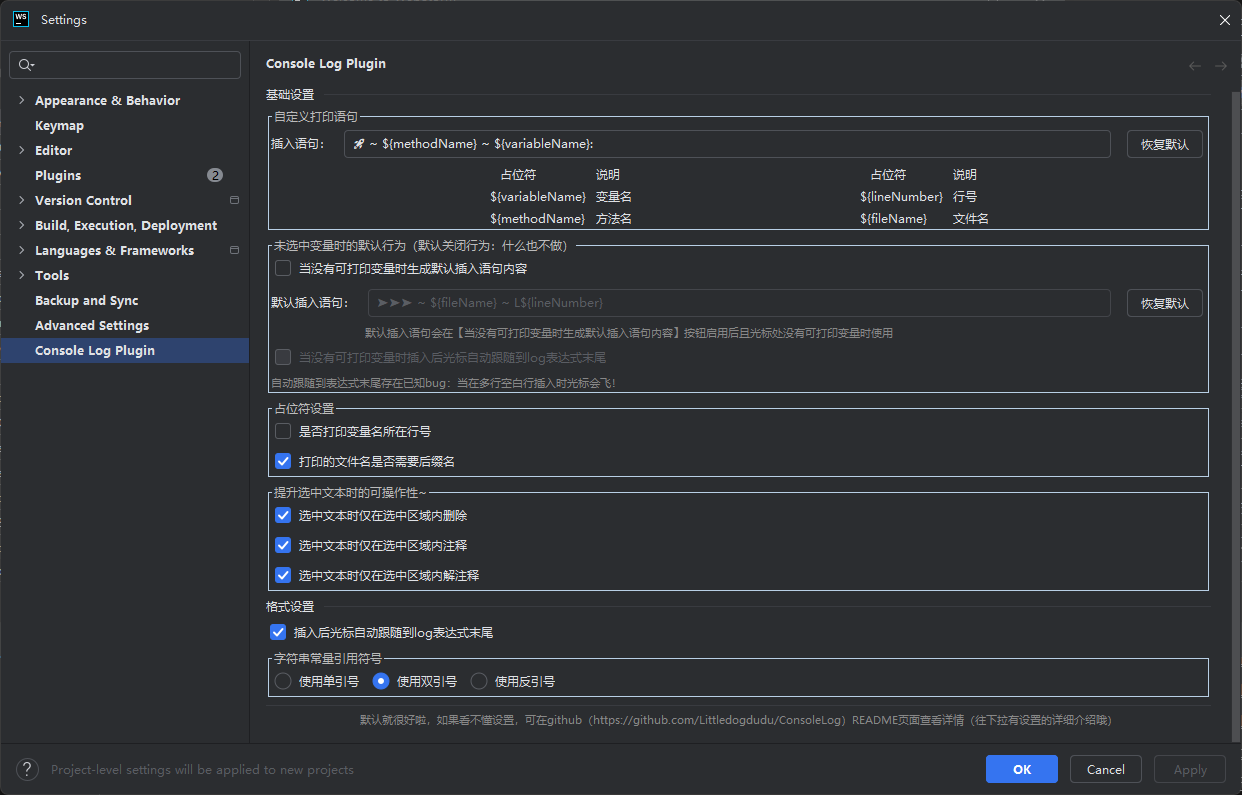
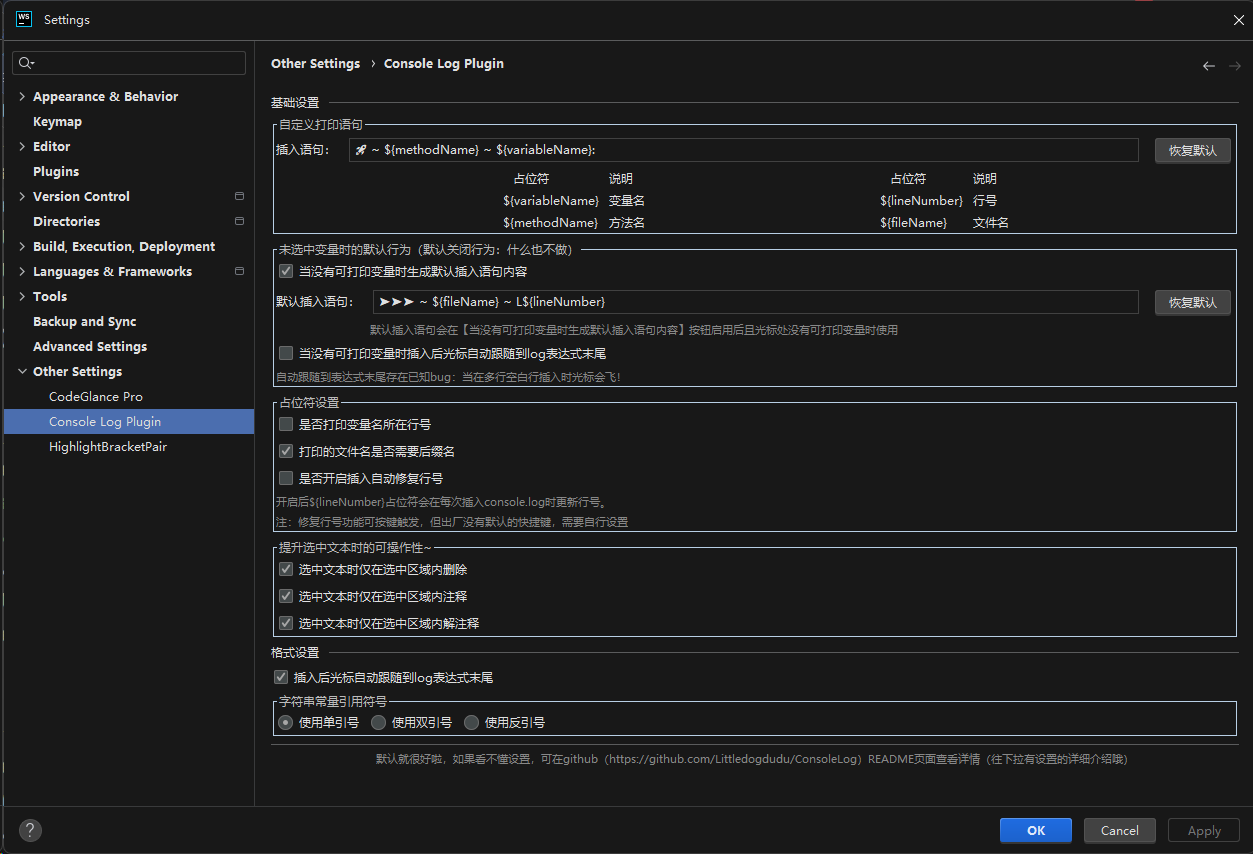
doc: 更新1.1.5版本文档

diff --git a/README.md b/README.md
@@ -36,8 +36,8 @@
 
 > 可在[github](https://github.com/Littledogdudu/ConsoleLog/releases)或者[jetbrain marketplace](https://plugins.jetbrains.com/plugin/26574-console-log/versions)上下载对应心仪版本  
 > 1.0.6版本是插件最主要功能的最佳版本，是没有加入多光标支持、选中区域删除/注释/解注释和侧边栏的版本  
-> 1.1.3版本是当前加入多光标支持和选中区域删除/注释/解注释功能的最佳版本（推荐）  
-> 1.2.0版本是当前加入侧边栏的支持的最佳版本
+> 1.1.5版本是当前加入多光标支持和选中区域删除/注释/解注释功能的最佳版本（推荐）  
+> 1.2.1版本是当前加入侧边栏的支持的最佳版本
 
 运行这个插件需要把这个local方法的参数修改为你的WebStorm文件路径哦
 ![modifyLocal](https://github.com/Littledogdudu/ConsoleLog/blob/master/.github/readme/buildModifyLocal.png)
@@ -95,6 +95,11 @@
 
 默认启用：\${fileName}占位符将会被替换为生成的console.log所在的文件名，且包含后缀名  
 禁用后：\${fileName}占位符将会被替换为生成的console.log所在的文件名，但不在包含后缀名
+
+#### 是否开启插入自动修复行号
+
+默认不启用：\${lineNumber}占位符不会自动更新，需手动更新  
+启用后：\${lineNumber}占位符会在插入console.log语句时自动更新为正确行号
 
 ### 提升选中文本时的可操作性
 
@@ -183,7 +188,7 @@ After activation: When there are no printable variables at the cursor, the inser
 
 The same as the insert statement, but only when the \[Generates default insert statement content when there are no printable variables\] button above is enabled and the current cursor has no printable variables
 
-#### When there are no printable variables, the cursor automatically follows to the end of the log expression after insertion
+#### when there are no printable variables, the cursor automatically follows to the end of the log expression after insertion
 
 Default not enabled (recommended): When there are no printable variables, the inserted print statement will automatically follow to the end of the generated console.log  
 After activation: Inserted print statements are automatically followed to the end of the generated console.log
@@ -192,7 +197,7 @@ After activation: Inserted print statements are automatically followed to the en
 
 ### Placeholder settings
 
-#### Whether to use the line number where the print variable is located
+#### whether to use the line number where the print variable is located
 
 Default not enabled: The \${lineNumber} placeholder will be replaced with the line number where the generated console.log is located  
 After activation, the \${lineNumber} placeholder will be replaced with the line number of the variable that needs to be printed
@@ -201,6 +206,11 @@ After activation, the \${lineNumber} placeholder will be replaced with the line 
 
 Default enabled: The \${fileName} placeholder will be replaced with the file name of the generated console.log, including the suffix  
 After disabling: The \${fileName} placeholder will be replaced with the file name of the generated console.log, but it will not include the suffix
+
+#### whether to enable the insertion of auto-repair line numbers
+
+Default not enabled: The \${lineNumber} placeholder will not be automatically updated and needs to be updated manually
+After activation: The \${lineNumber} placeholder is automatically updated to the correct line number when the console.log statement is inserted
 
 ### Improve the operability when selecting code
 

diff --git a/CHANGELOG.en_US.md b/CHANGELOG.en_US.md
@@ -5,6 +5,11 @@
 
 ## [Unreleased]
 
+## [1.1.5] - 2025-07-04
+- Automatically repairs line numbers when inserted
+- You can use shortcut keys to repair line numbers (you don't need to set the default shortcut keys, you need to set them by yourself)
+- When the variable is undefined near the cursor, a statement that determines the direction of data flow is generated, and the act of deleting/commenting/uncommenting is generated
+
 ## [1.1.4] - 2025-06-30
 
 ### Feature

diff --git a/CHANGELOG.md b/CHANGELOG.md
@@ -3,6 +3,13 @@
 
 ## [Unreleased]
 
+## [1.1.5] - 2025-07-04
+
+### Feature
+- 插入时自动修复行号（不会再添加除插入外其他情况的自动触发）
+- 可通过快捷键自主执行修复行号操作（不设置默认快捷键，需自行设置）
+- 不选中文本时生成判断数据流向的语句及删除/注释/解注释的行为
+
 ## [1.1.4] - 2025-06-30
 
 ### Feature
